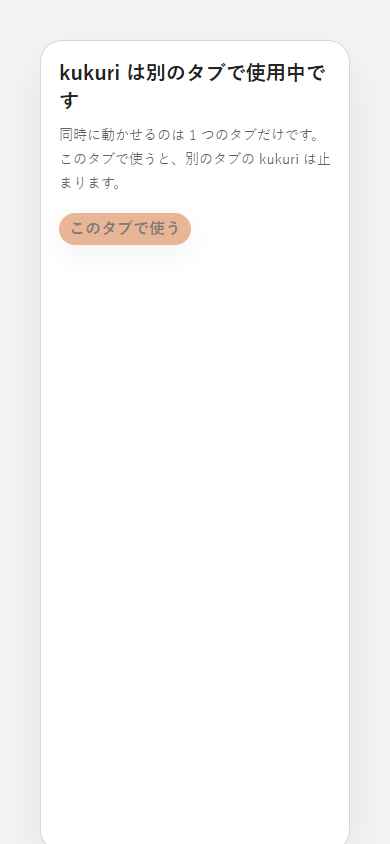
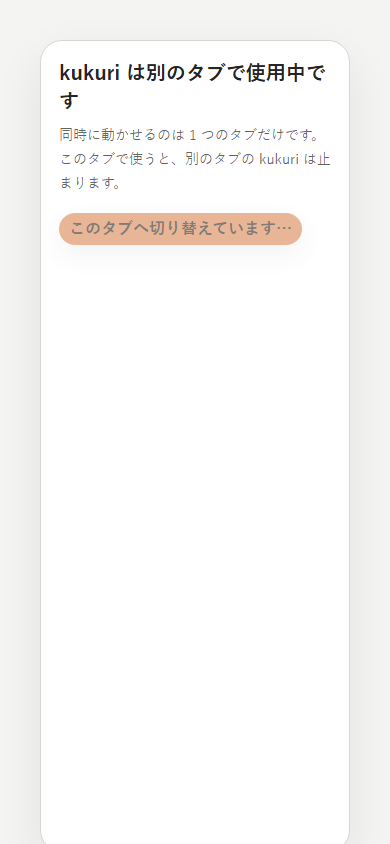
fix: 起動・引継ぎ・切替の途中で奪われた tab も操作の終わりを待って止め、引継ぎ中を処理中と示す (#1217 AC-4 監査 B-1・B-2)

Changed region(s): [[0.3385, 0.2464, 0.7692, 0.3081]]

diff --git a/apps/desktop/src/App.webTabLock.test.tsx b/apps/desktop/src/App.webTabLock.test.tsx
@@ -62,8 +62,14 @@ test('a tab opened while another tab runs kukuri takes it over only on request',
   expect(await screen.findByRole('alert')).toHaveTextContent('Could not switch to this tab. Please try again.');
   expect(screen.getByRole('button', { name: 'Use in this tab' })).toBeEnabled();
 
-  takeOver.mockImplementation(runInThisTab);
+  // 引継ぎの間は、処理中であることを示して重ねて押せない。
+  let finish!: () => void;
+  takeOver.mockImplementation(() => new Promise((resolve) => { finish = () => resolve(runInThisTab()); }));
   await user.click(screen.getByRole('button', { name: 'Use in this tab' }));
+  const busy = await screen.findByRole('button', { name: 'Switching to this tab…' });
+  expect(busy).toBeDisabled();
+  expect(busy).toHaveAttribute('aria-busy', 'true');
+  finish();
   expect(await screen.findByTestId('control-center-trigger')).toBeInTheDocument();
   expect(takeOver).toHaveBeenCalledTimes(2);
 });

diff --git a/apps/desktop/src/components/RuntimeInUseView.tsx b/apps/desktop/src/components/RuntimeInUseView.tsx
@@ -32,8 +32,8 @@ export function RuntimeInUseView({ pending, failed, onTakeOver }: RuntimeInUseVi
           </Notice>
         ) : null}
         <div className='startup-error-actions'>
-          <Button type='button' disabled={pending} onClick={onTakeOver}>
-            {t('startup.inUseElsewhere.takeOver')}
+          <Button type='button' disabled={pending} aria-busy={pending} onClick={onTakeOver}>
+            {pending ? t('startup.inUseElsewhere.takingOver') : t('startup.inUseElsewhere.takeOver')}
           </Button>
         </div>
       </section>

diff --git a/crates/web-runtime/src/client_tests.rs b/crates/web-runtime/src/client_tests.rs
@@ -106,6 +106,25 @@ async fn eventually(mut done: impl FnMut() -> bool) -> bool {
     false
 }
 
+/// この origin で runtime の lock（`kukuri-runtime-v1`）を誰かが持っている（Web Locks の `query`）。
+async fn runtime_lock_held() -> bool {
+    let window = web_sys::window().unwrap();
+    let locks = js_sys::Reflect::get(&window.navigator(), &"locks".into()).unwrap();
+    let query: js_sys::Function = js_sys::Reflect::get(&locks, &"query".into())
+        .unwrap()
+        .dyn_into()
+        .unwrap();
+    let snapshot: js_sys::Promise = query.call0(&locks).unwrap().dyn_into().unwrap();
+    let snapshot = wasm_bindgen_futures::JsFuture::from(snapshot)
+        .await
+        .unwrap();
+    json_of(&snapshot)["held"]
+        .as_array()
+        .unwrap()
+        .iter()
+        .any(|lock| lock["name"] == "kukuri-runtime-v1")
+}
+
 async fn timeline(topic: &str) -> Vec<String> {
     let view = call(
         "list_timeline",
@@ -348,6 +367,35 @@ async fn the_client_runs_commands_and_events_and_drops_stale_results_across_rest
     // live・game・metaverse・Dome は Web の合意の外（ADR 0060 §3）。
     let session = call("list_live_sessions", Value::Null).await.unwrap_err();
     assert_eq!(session["code"], "unsupported_platform");
+
+    // 起動の途中（lock を取った後、runtime を公開する前）に別の tab が奪っても、起動を終えてから止まり、lock を持たない
+    // まま runtime を動かさない。
+    shutdown().await;
+    let mut starting = Box::pin(start(JsValue::UNDEFINED));
+    while !runtime_lock_held().await {
+        assert!(n0_future::future::poll_once(&mut starting).await.is_none());
+    }
+    // 起動は poll しないと進まない。lock の callback が動くのを待ってから 1 歩だけ進め、lock を取った後で止める。
+    n0_future::time::sleep(Duration::from_millis(50)).await;
+    assert!(n0_future::future::poll_once(&mut starting).await.is_none());
+    let thief = tab_lock::acquire(true, || {})
+        .await
+        .unwrap()
+        .expect("the other tab takes the lock during the start");
+    starting.await.unwrap();
+    let mut status = Value::Null;
+    for _ in 0..100 {
+        status = call("get_desktop_startup_status", Value::Null)
+            .await
+            .unwrap();
+        if status["status"] == "in_use_elsewhere" {
+            break;
+        }
+        n0_future::time::sleep(Duration::from_millis(50)).await;
+    }
+    assert_eq!(status, json!({ "status": "in_use_elsewhere" }));
+    assert!(call("list_accounts", Value::Null).await.is_err());
+    drop(thief);
     shutdown().await;
 }
 

diff --git a/crates/web-runtime/src/client.rs b/crates/web-runtime/src/client.rs
@@ -193,9 +193,10 @@ async fn begin(client: &Rc<Client>, steal: bool) -> ClientStartupStatus {
     }
 }
 
-/// 別の tab に lock を奪われた: runtime を止め（世代の終了）、起動の状態を `in_use_elsewhere` に戻して、止め終えてから
-/// 画面に知らせる。
+/// 別の tab に lock を奪われた: 行っている操作（起動・引継ぎ・同意・account の切替）の終わりを待ってから runtime を止め
+/// （世代の終了）、起動の状態を `in_use_elsewhere` に戻して、止め終えてから画面に知らせる。
 async fn lose_runtime(client: Rc<Client>) {
+    let _guard = client.gate.operation_lock.lock().await;
     client.runtime_lock.borrow_mut().take();
     let host = client.gate.host.write().expect("host lock poisoned").take();
     client
